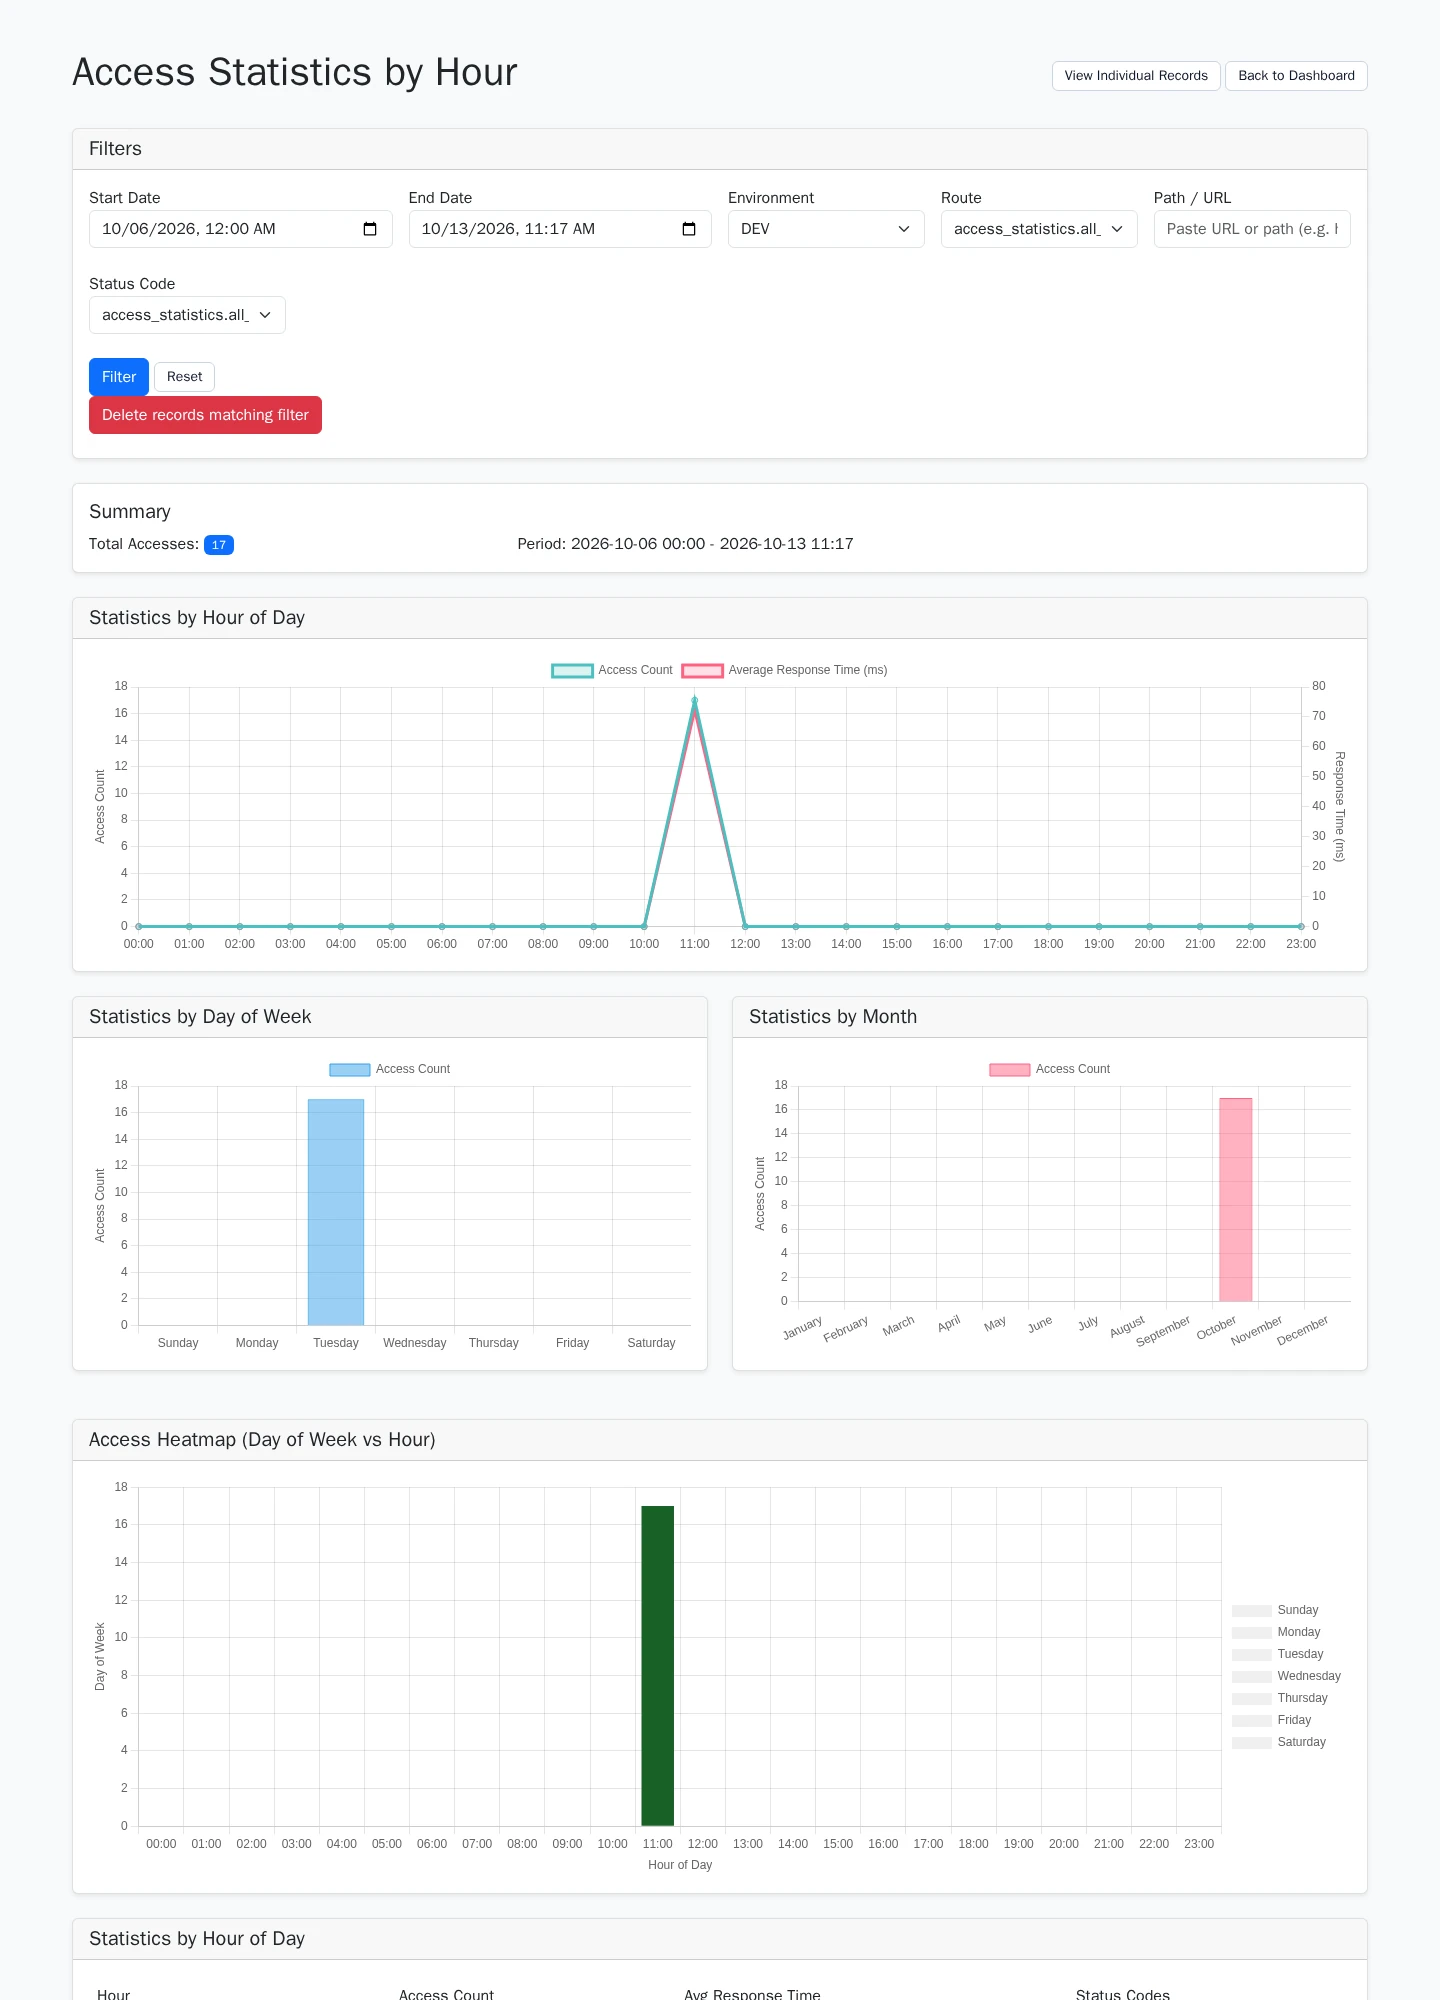
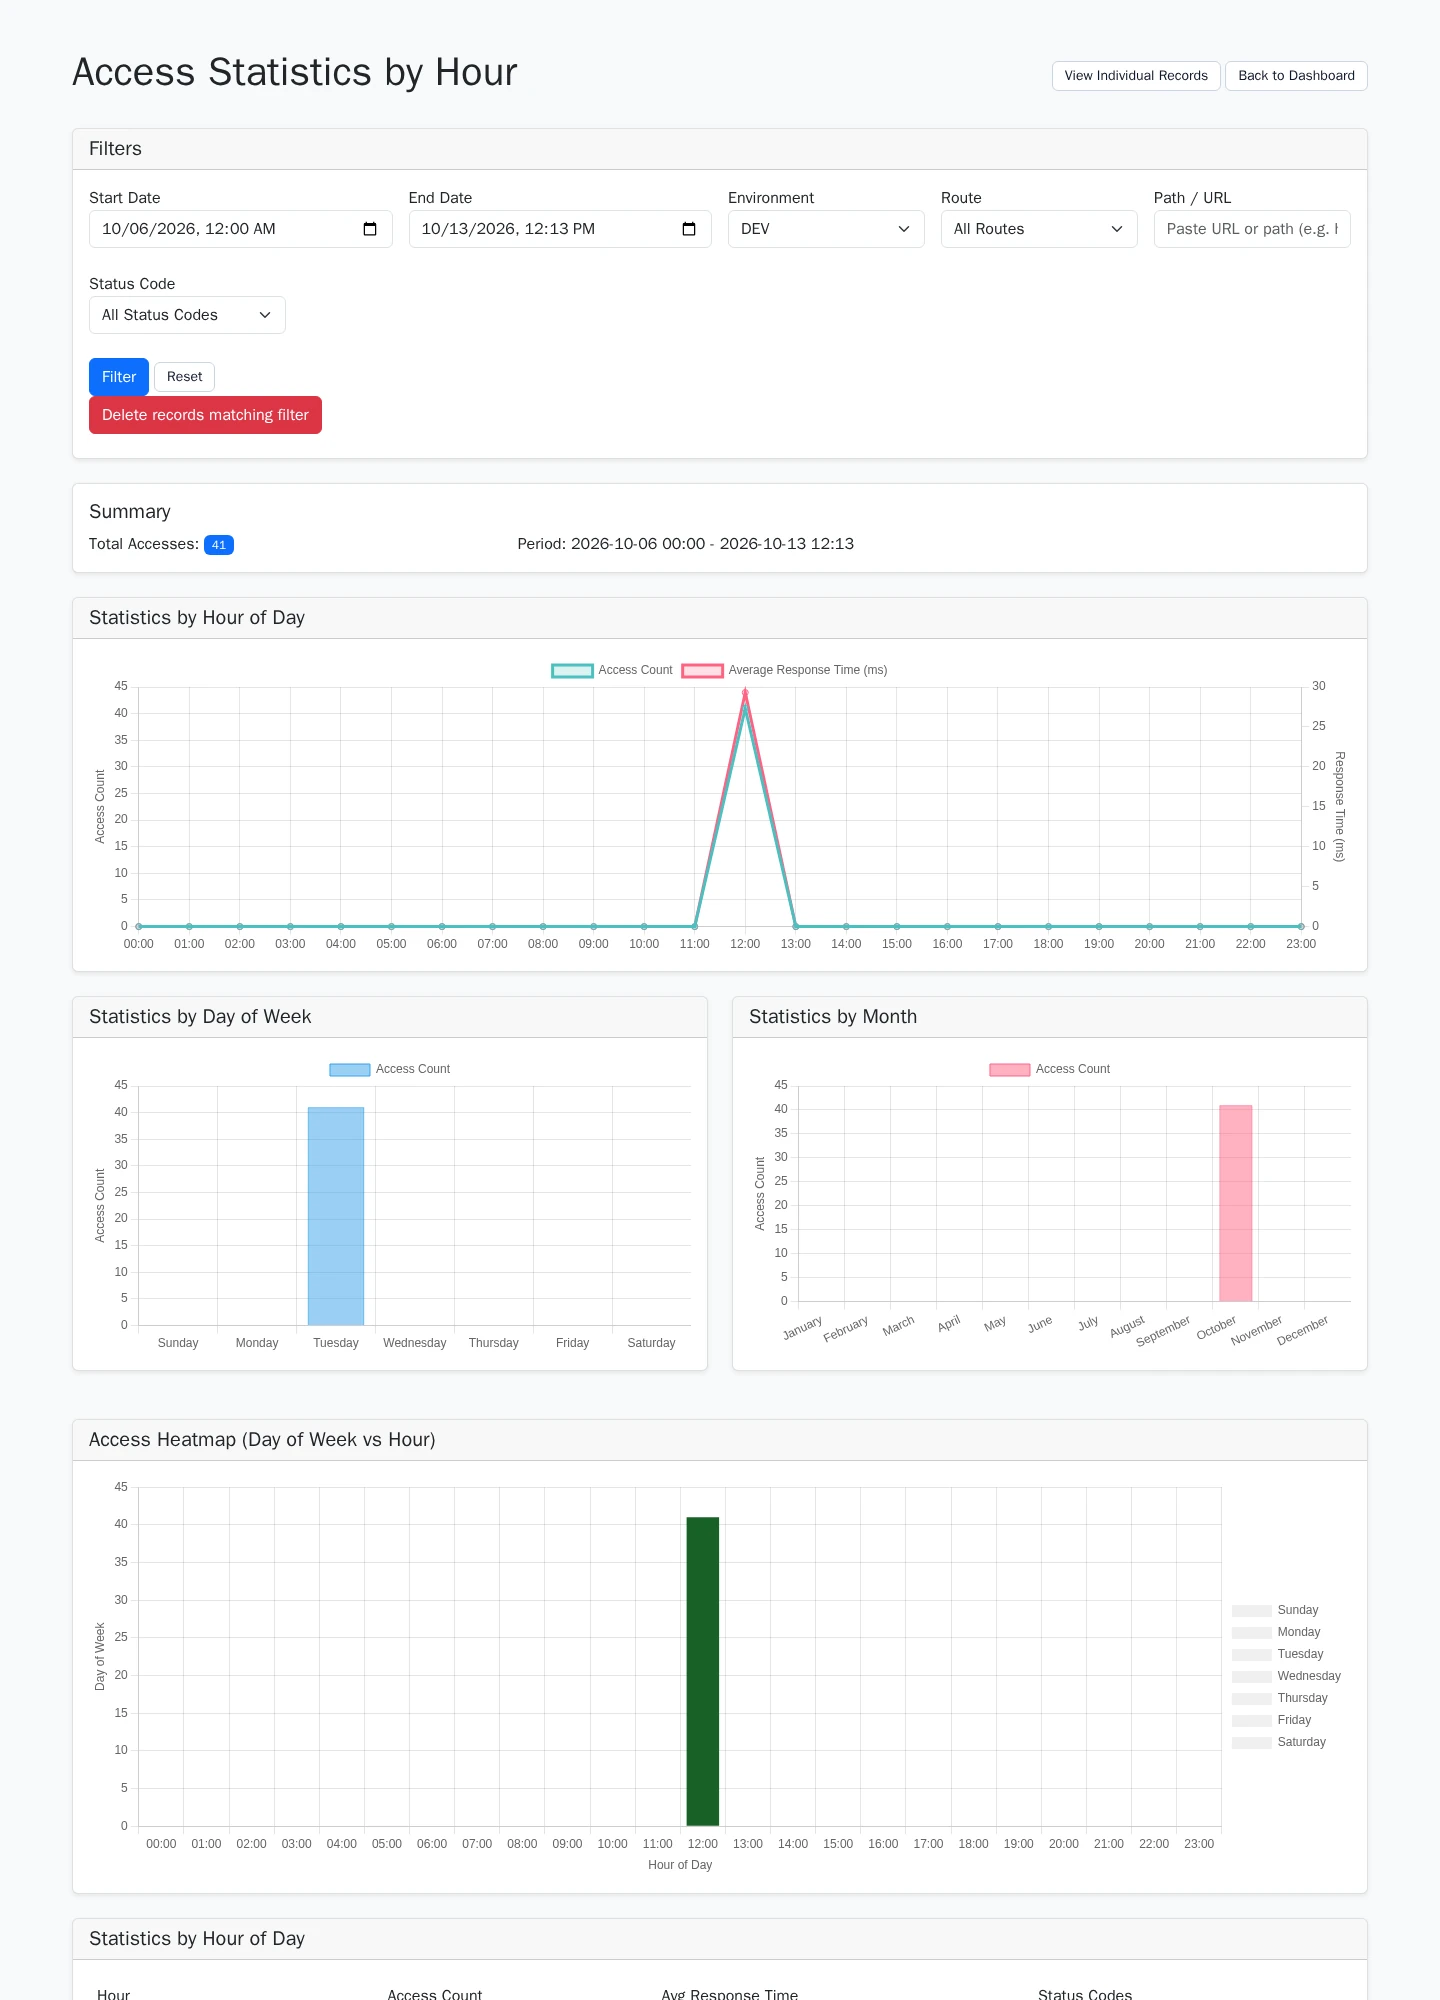
docs: refresh demo screenshots (WebP)
Recapture the three dashboard screenshots in the default FrankenPHP worker
mode (metrics recorded since 3.7.1): no false "UX Icons required" warning,
translated "All …" filter options. The screenshots spec now generates more
varied traffic (home, product list/new/show/edit, repeated rounds) so the
tables and charts are populated.

diff --git a/demo/symfony8/e2e/tests/screenshots.spec.ts b/demo/symfony8/e2e/tests/screenshots.spec.ts
@@ -10,10 +10,21 @@ const outDir = process.env.SCREENSHOT_DIR
   ? resolve(process.env.SCREENSHOT_DIR)
   : resolve(__dirname, '../../../../docs/images/demo');
 
-/** Generate some tracked traffic so the dashboard has data to show. */
+/**
+ * Generate tracked traffic (several routes, repeated visits) so the dashboard tables, charts and
+ * access statistics have data to show. Metrics are recorded in the default FrankenPHP worker mode.
+ */
 async function warmUp(page: Page): Promise<void> {
-  for (const path of ['/', '/product/', '/product/new', '/', '/product/', '/']) {
-    await page.goto(path);
+  await page.goto('/product/');
+  const productLinks = await page
+    .locator('a[href^="/product/"]')
+    .evaluateAll((links) => links.map((a) => (a as HTMLAnchorElement).getAttribute('href') ?? ''));
+  const productPages = [...new Set(productLinks.filter((href) => /^\/product\/\d+(\/edit)?$/.test(href)))].slice(0, 6);
+  const paths = ['/', '/product/', '/product/new', '/performance', ...productPages];
+  for (let round = 0; round < 6; round++) {
+    for (const path of paths.slice(0, 3 + ((round * 2) % paths.length))) {
+      await page.goto(path);
+    }
   }
 }
 
